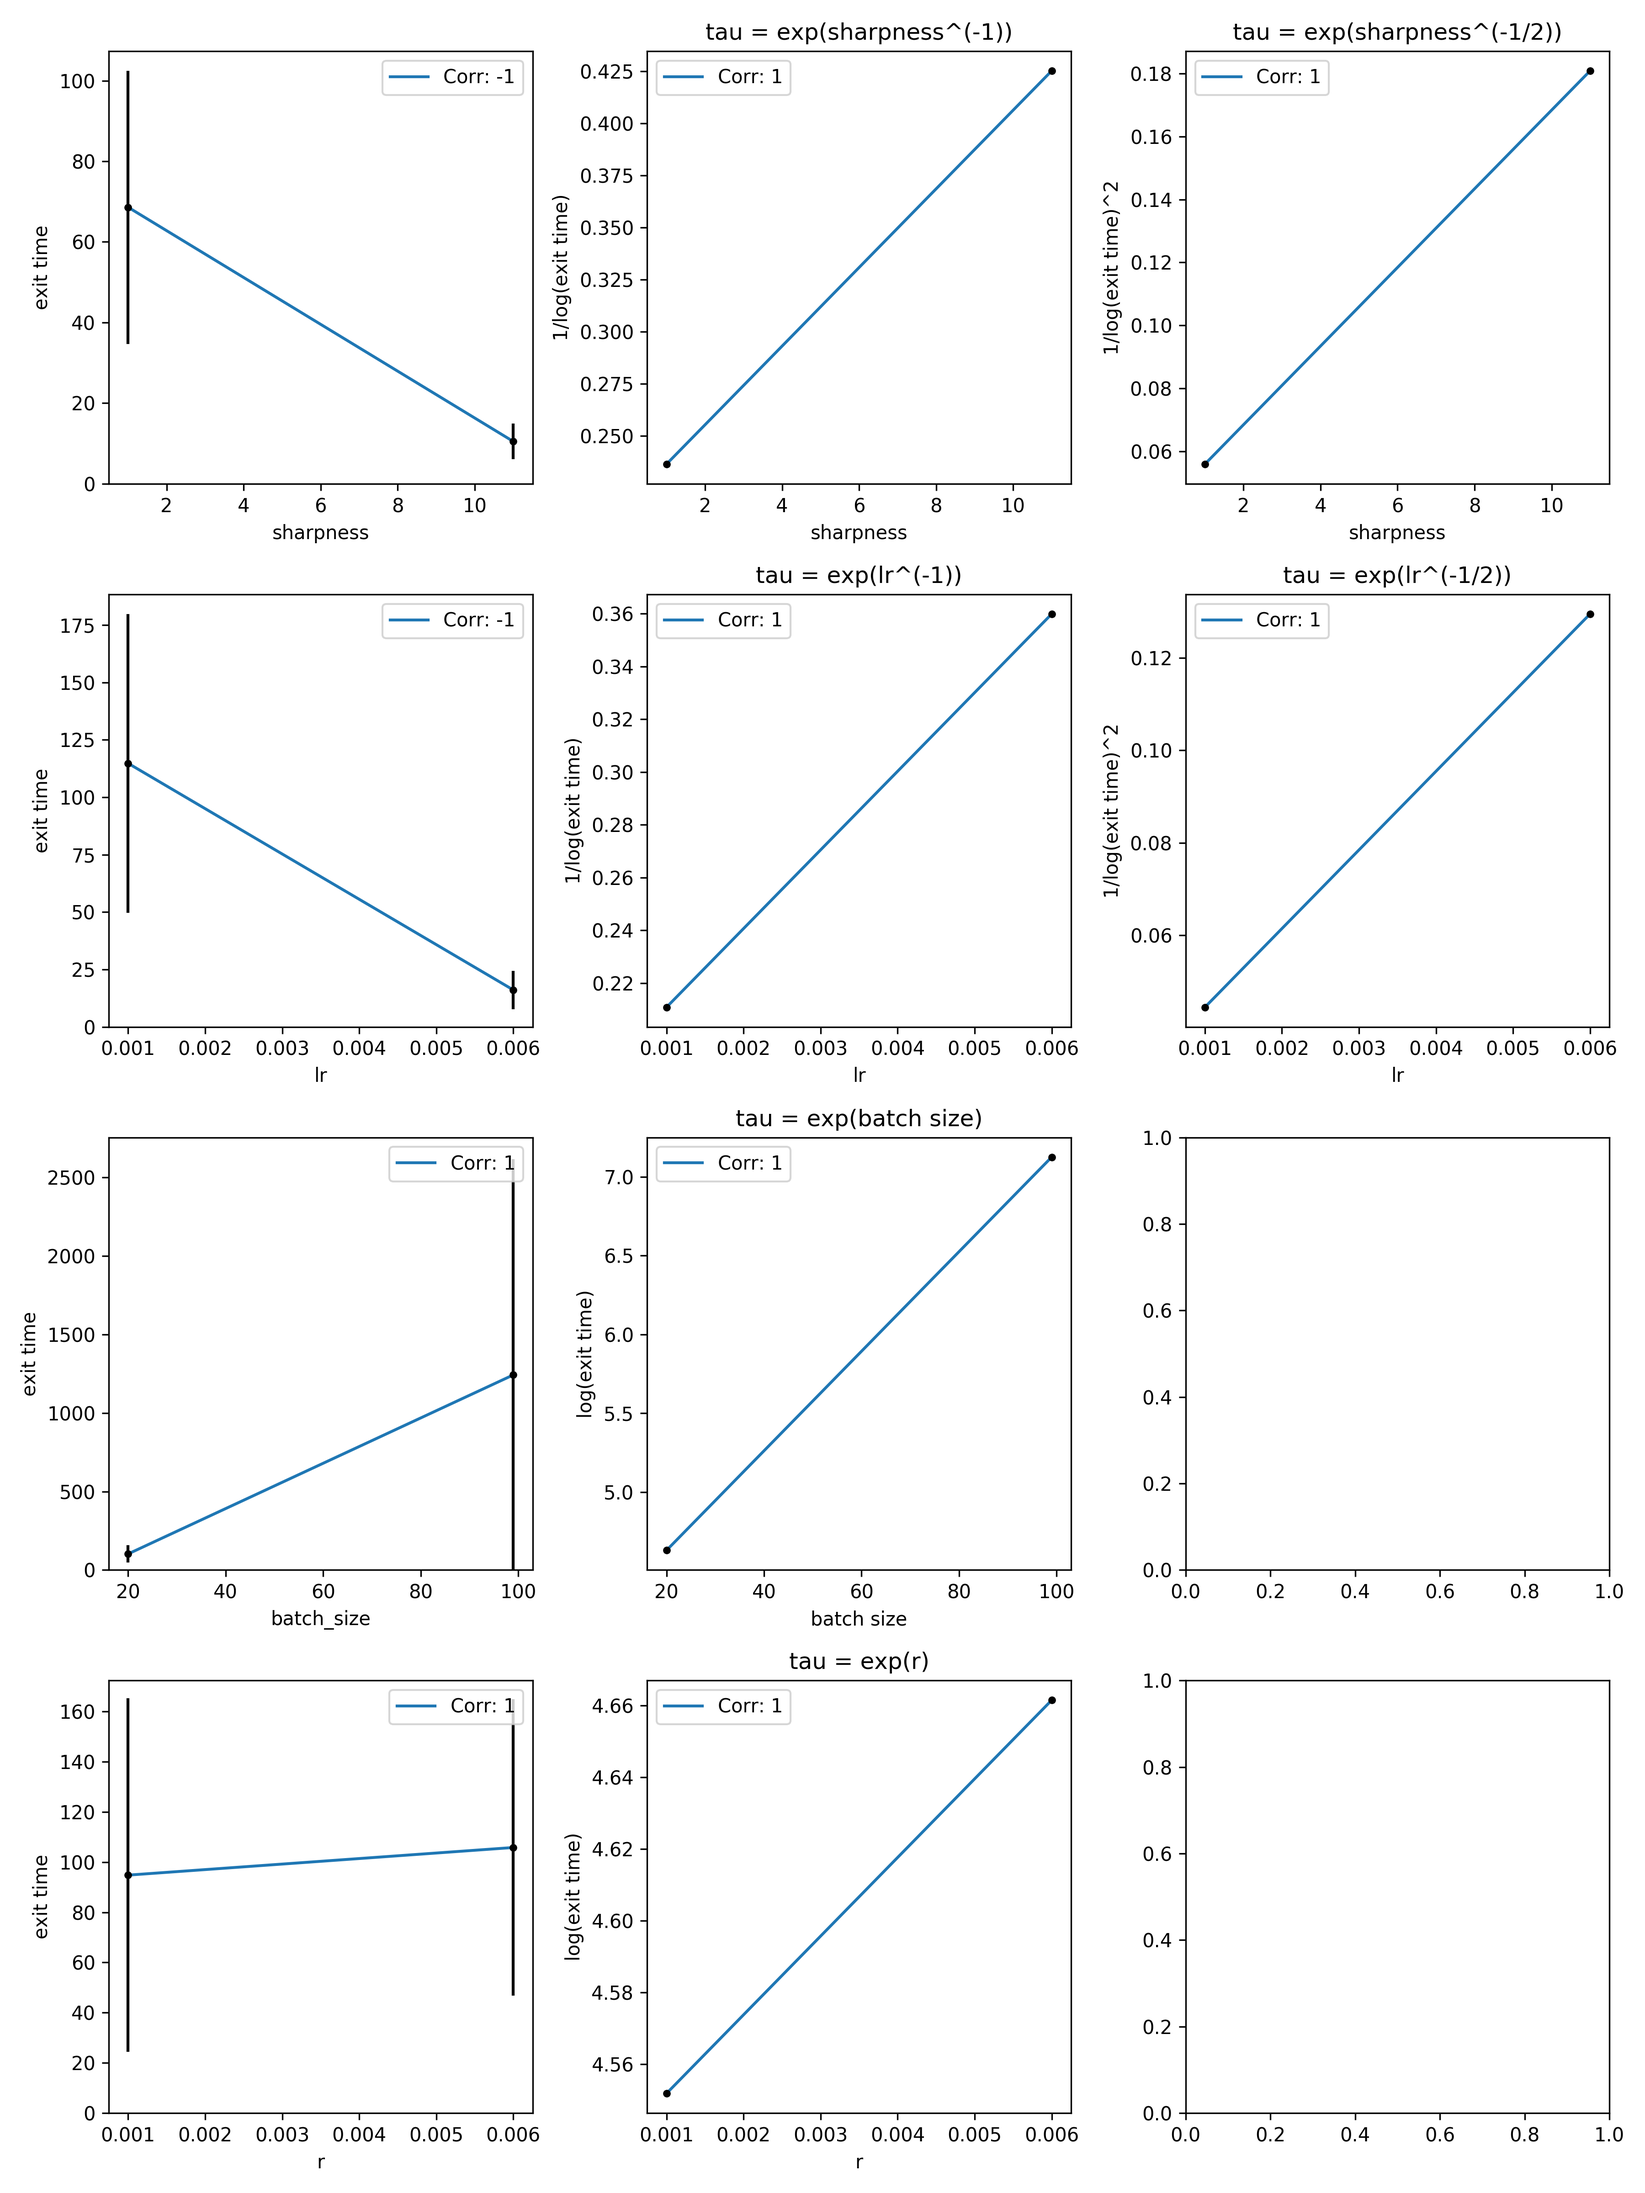
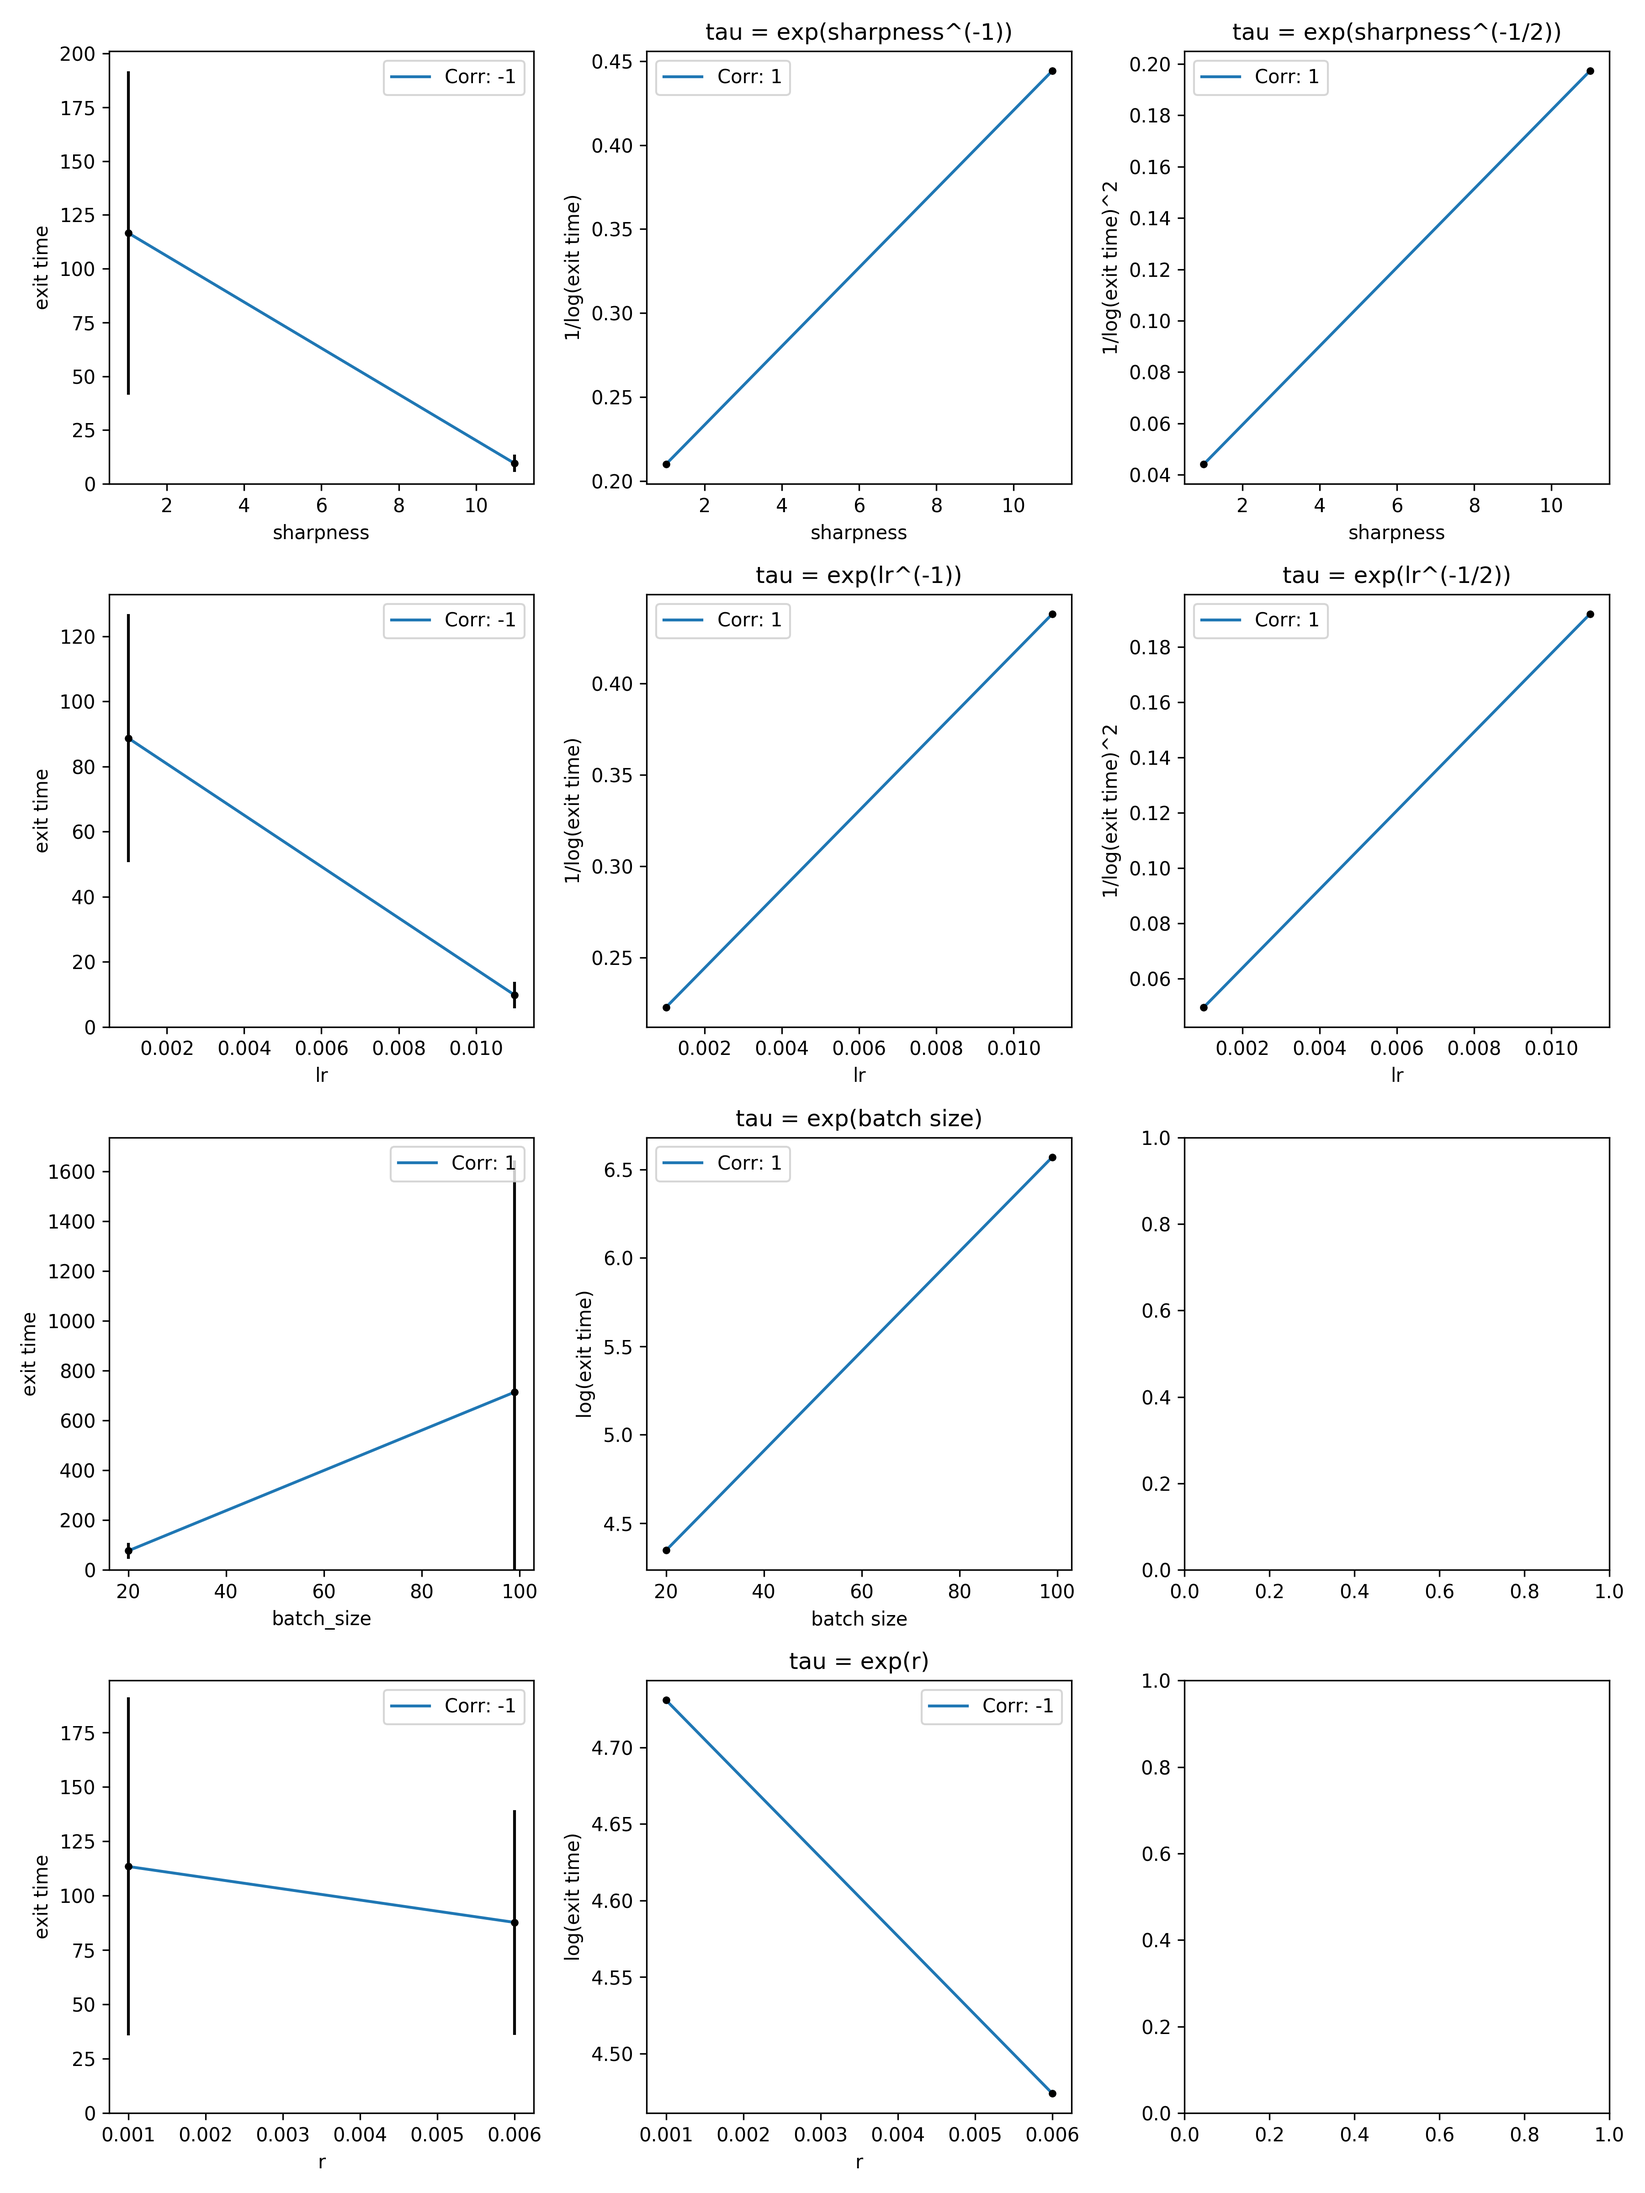
update

diff --git a/exit_time.py b/exit_time.py
@@ -326,7 +326,7 @@ def main():
     config['r_min'] = 0.001 
     config['r_interval'] = 0.005
     config['lr_min'] = 0.001
-    config['lr_interval'] = 0.005 
+    config['lr_interval'] = 0.01 
     config['batch_size_min'] = 20 
     config['batch_size_interval'] = 80 
     config['exit_trial_num'] = 100 
